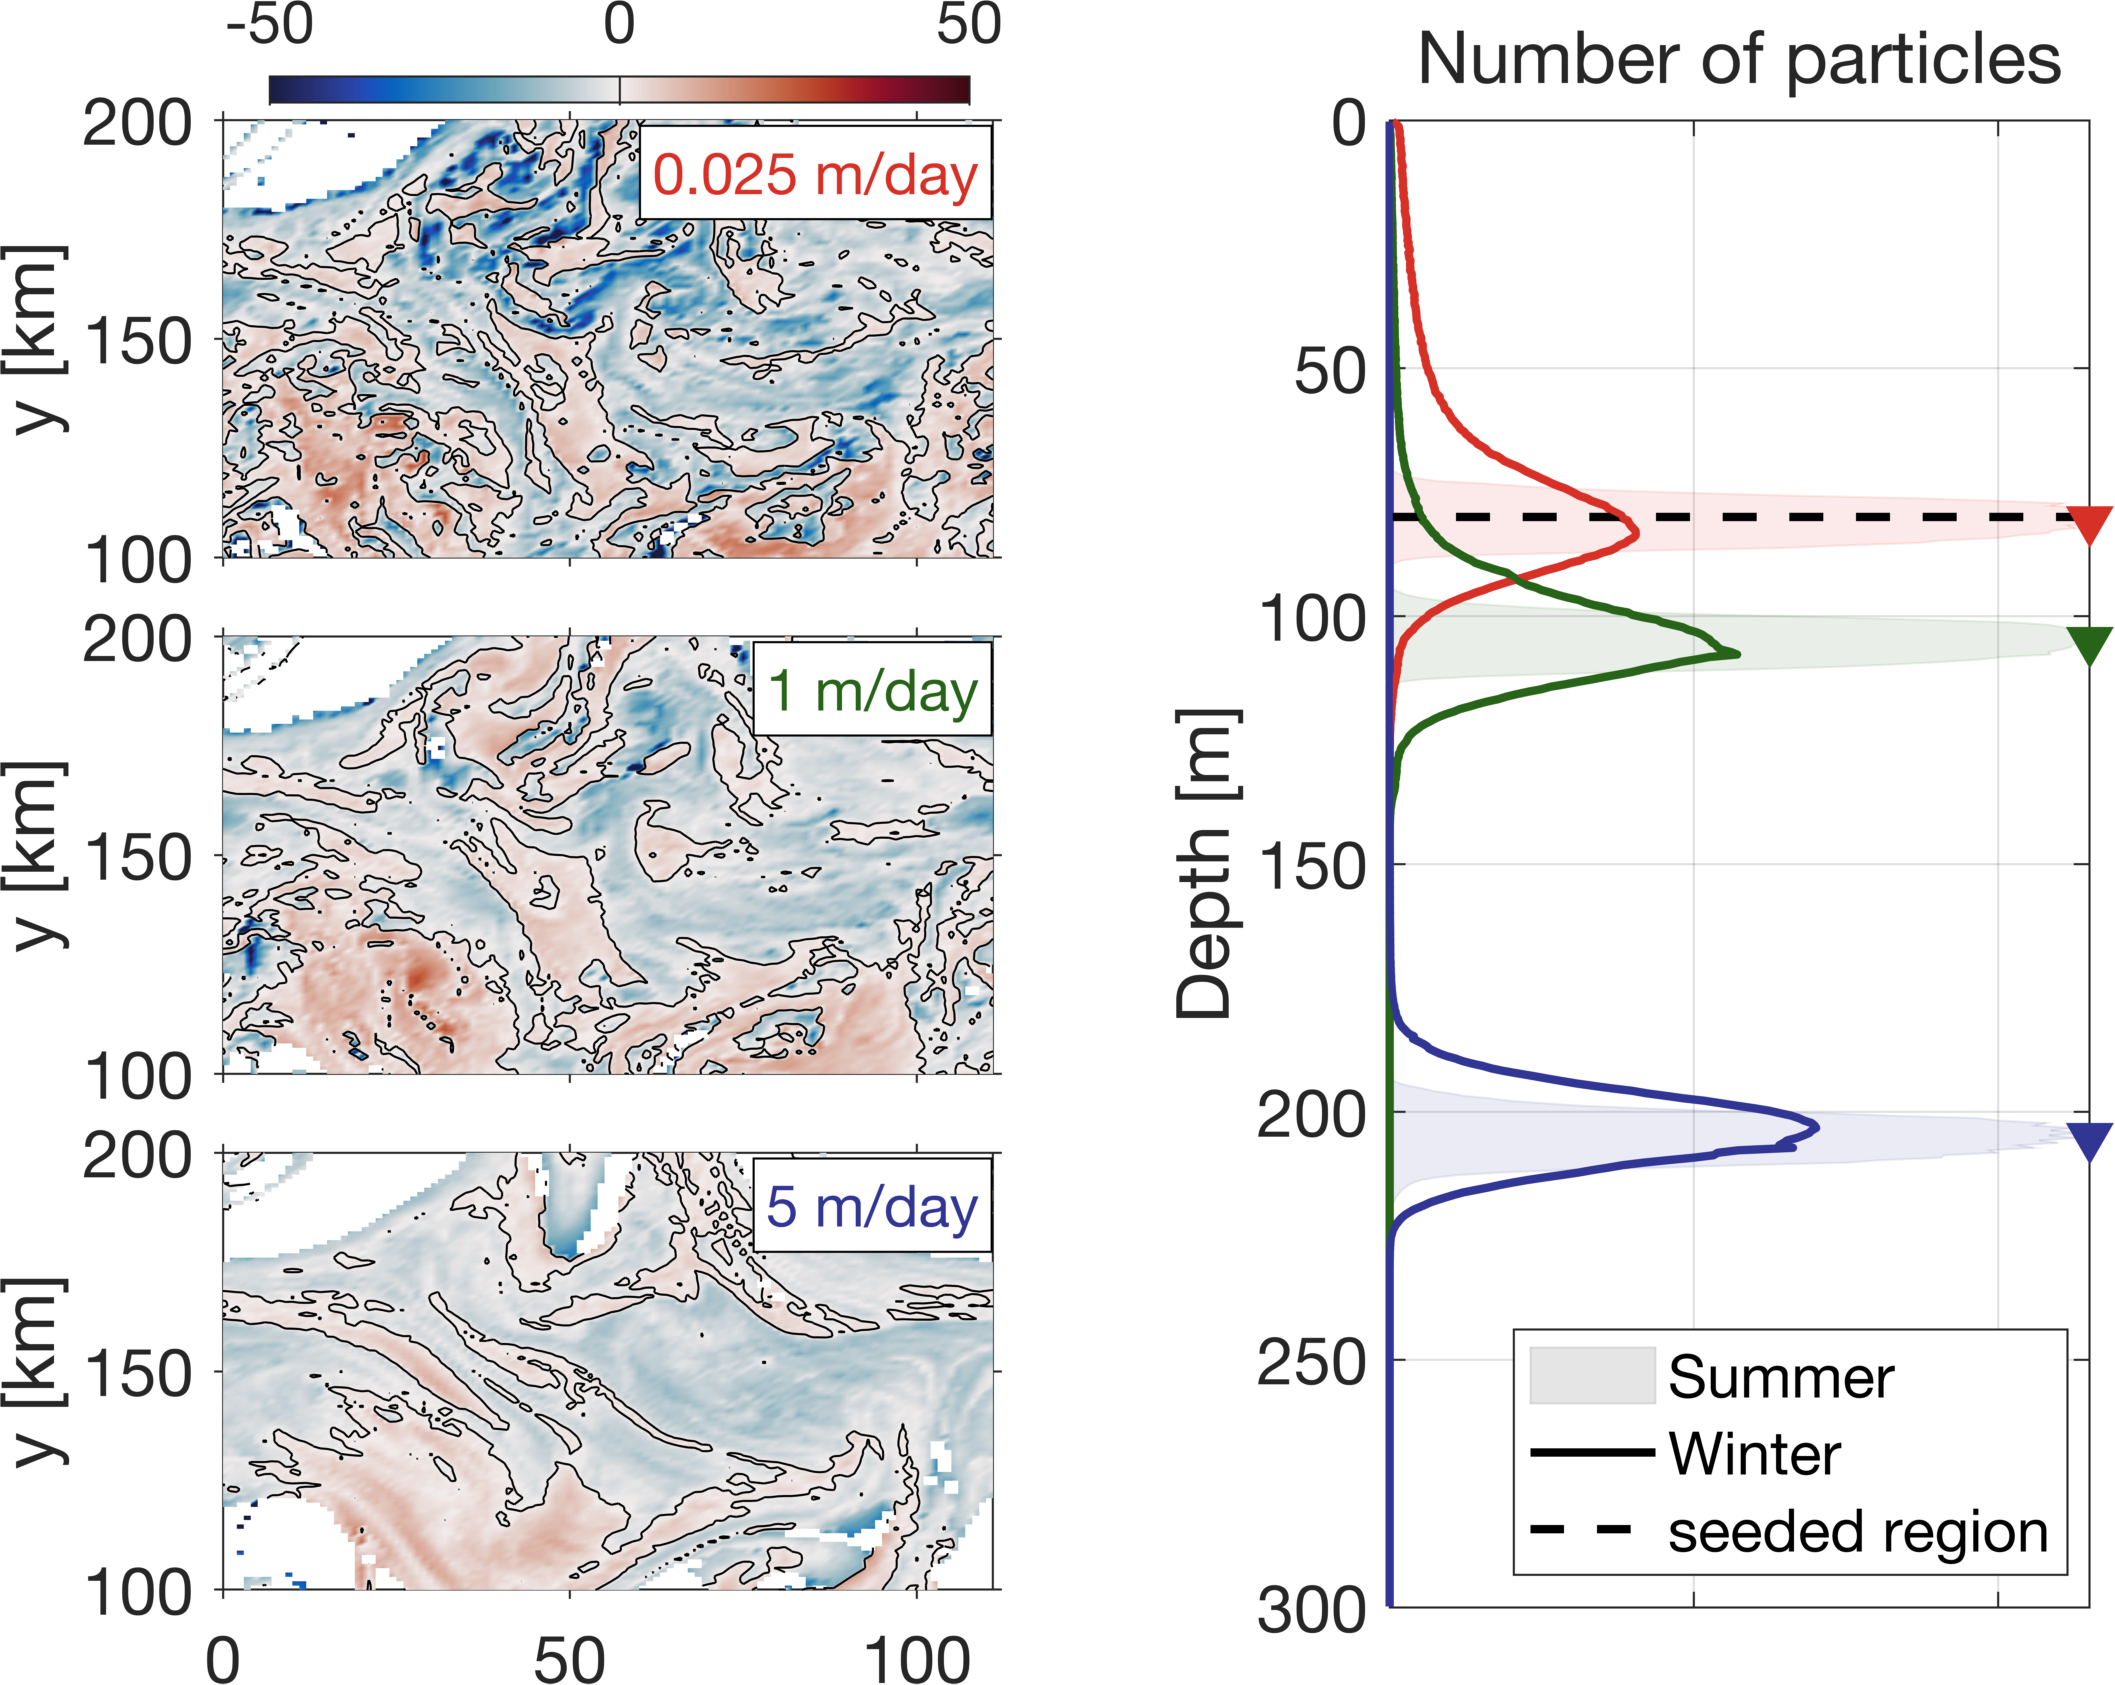
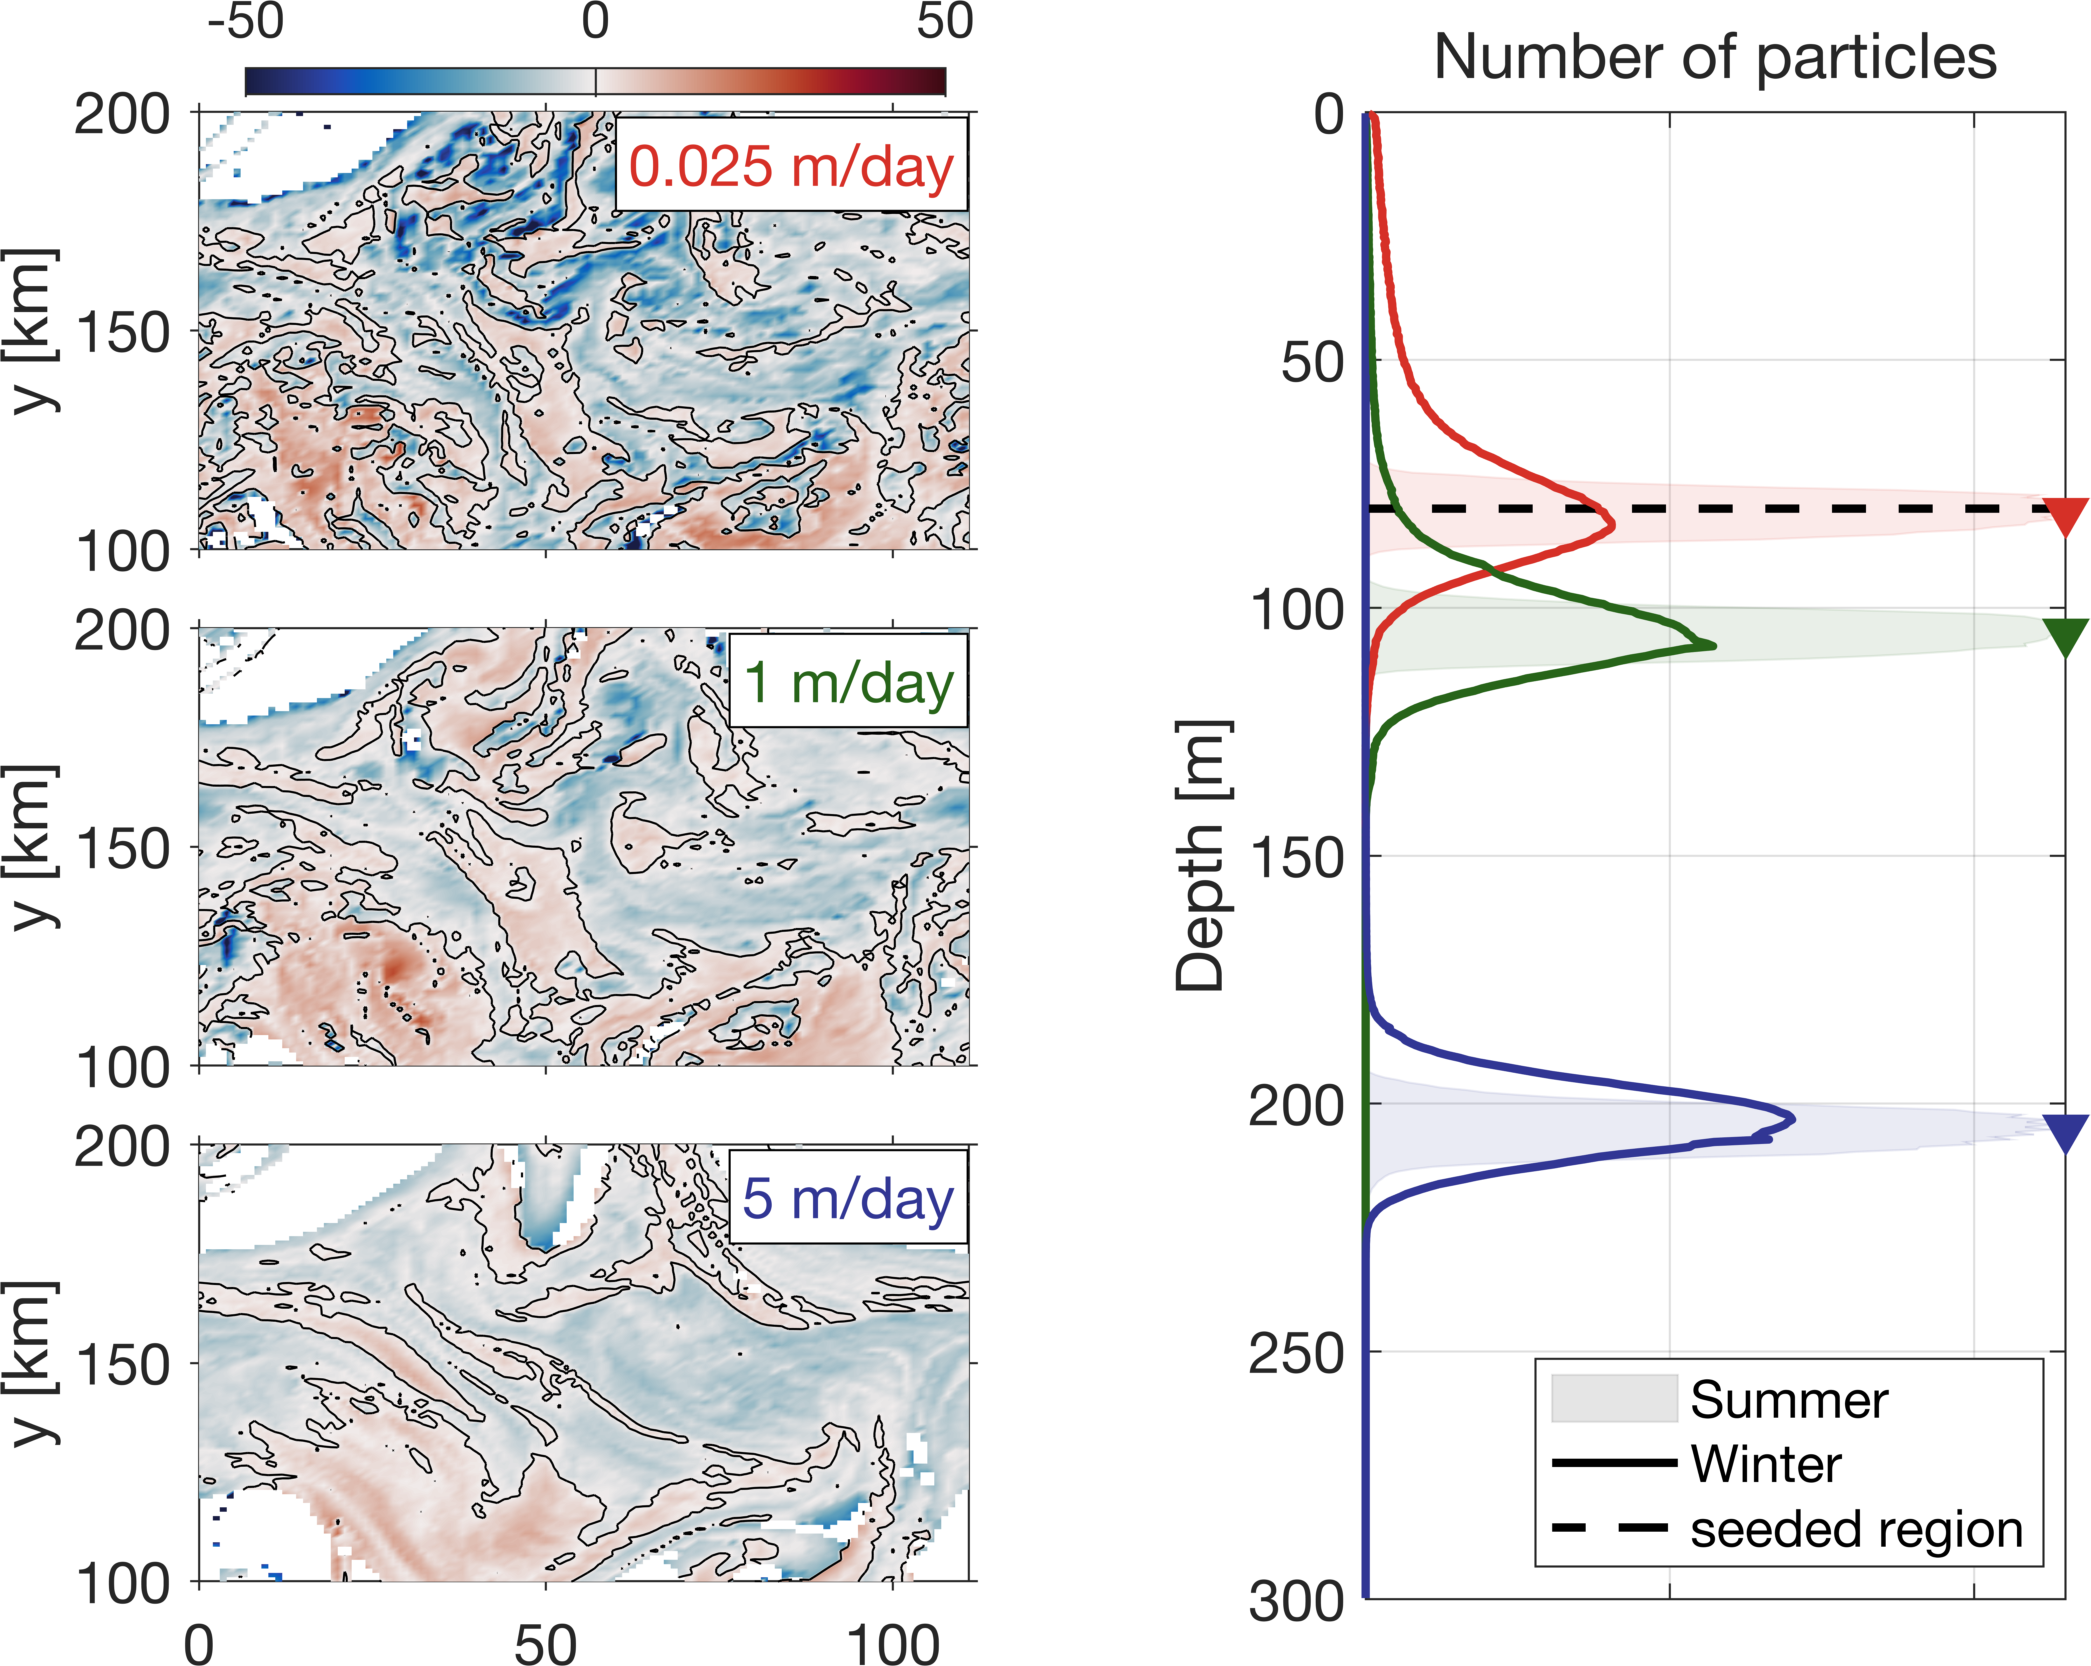
update Fig6

diff --git a/figures/code/Fig6_v5.m b/figures/code/Fig6_v5.m
@@ -1,13 +1,13 @@
 clear
 
 %% Import (x,y,z) for each size class in winter and summer
-[x0025s,y0025s,z0025s] = importxyz('/Volumes/home/mdever/particleposition/doy25/wtotal0025mday_summer.csv');
-[x1s,y1s,z1s] = importxyz('/Volumes/home/mdever/particleposition/doy25/wtotal1mday_summer.csv');
-[x5s,y5s,z5s] = importxyz('/Volumes/home/mdever/particleposition/doy25/wtotal5mday_summer.csv');
+[x0025s,y0025s,z0025s] = importxyz('/Volumes/mdever/particleposition/doy25/wtotal0025mday_summer.csv');
+[x1s,y1s,z1s] = importxyz('/Volumes/mdever/particleposition/doy25/wtotal1mday_summer.csv');
+[x5s,y5s,z5s] = importxyz('/Volumes/mdever/particleposition/doy25/wtotal5mday_summer.csv');
 
-[x0025,y0025,z0025] = importxyz('/Volumes/home/mdever/particleposition/doy25/wtotal0025mday_winter.csv');
-[x1,y1,z1] = importxyz('/Volumes/home/mdever/particleposition/doy25/wtotal1mday_winter.csv');
-[x5,y5,z5] = importxyz('/Volumes/home/mdever/particleposition/doy25/wtotal5mday_winter.csv');
+[x0025,y0025,z0025] = importxyz('/Volumes/mdever/particleposition/doy25/wtotal0025mday_winter.csv');
+[x1,y1,z1] = importxyz('/Volumes/mdever/particleposition/doy25/wtotal1mday_winter.csv');
+[x5,y5,z5] = importxyz('/Volumes/mdever/particleposition/doy25/wtotal5mday_winter.csv');
 
 color0025 = [215,48,39]/256;
 color1 = [39,100,25]/256;
@@ -58,7 +58,7 @@ figure
 subplot(3,2,1)
 pcolor(0:rez:111,100:rez:200,medi0025'); shading interp
 cmocean('balance'); caxis([-50 50])
-set(gca,'fontsize',16,'xticklabels',{},'tickdir','out')
+set(gca,'fontsize',14,'xticklabels',{},'tickdir','out')
 H = colorbar; set(H,'location','northoutside','TickLength',0.04)
 hold on
 contour(0:rez:111,100:rez:200,medi0025',[0 0],'k')
@@ -70,7 +70,7 @@ text(109,188,'0.025 m/day','BackgroundColor','w','EdgeColor','k','fontsize',14,'
 subplot(3,2,3)
 pcolor(0:rez:111,100:rez:200,medi1'); shading interp
 cmocean('balance'); caxis([-50 50])
-set(gca,'fontsize',16,'xticklabels',{},'tickdir','out')
+set(gca,'fontsize',14,'xticklabels',{},'tickdir','out')
 hold on
 contour(0:rez:111,100:rez:200,medi1',[0 0],'k')
 axis tight; ylabel('y [km]')
@@ -80,7 +80,7 @@ text(109,188,'1 m/day','BackgroundColor','w','EdgeColor','k','fontsize',14,'Hori
 subplot(3,2,5)
 pcolor(0:rez:111,100:rez:200,medi5'); shading interp
 cmocean('balance'); caxis([-50 50])
-set(gca,'fontsize',16,'tickdir','out')
+set(gca,'fontsize',14,'tickdir','out')
 hold on
 contour(0:rez:111,100:rez:200,medi5',[0 0],'k')
 axis tight; ylabel('y [km]')
@@ -109,7 +109,7 @@ plot(N0025,Z,'color',color0025,'LineWidth',2);
 plot(N1,Z,'color',color1,'LineWidth',2);
 plot(N5,Z,'color',color5,'LineWidth',2);
 xlabel('Number of particles');ylabel('Depth [m]')
-set(gca,'XAxisLocation','top','FontSize',16,'YDir','reverse','XTickLabel',{})
+set(gca,'XAxisLocation','top','FontSize',14,'YDir','reverse','XTickLabel',{})
 grid on; box on
 h3 = line(get(gca,'xlim'),[80 80],'color','k','linestyle','--','linewidth',2);
 plot(N0025,Z,'color',color0025,'LineWidth',1.5)
